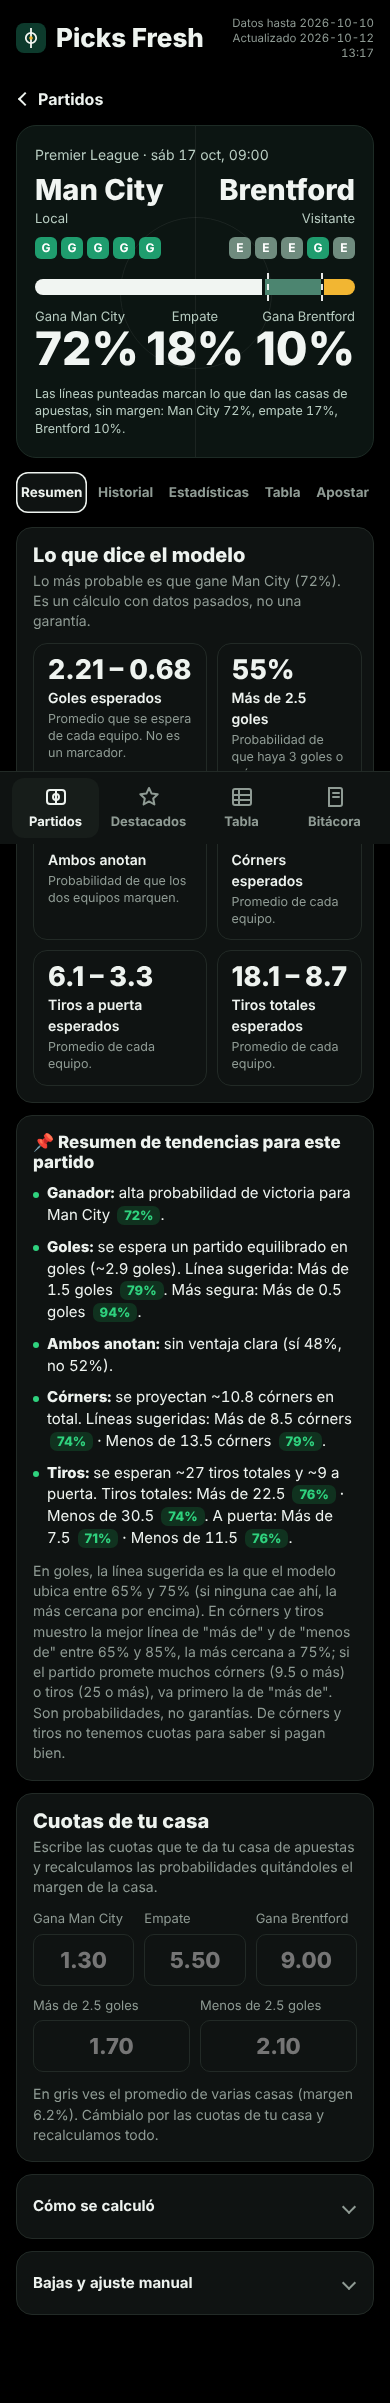
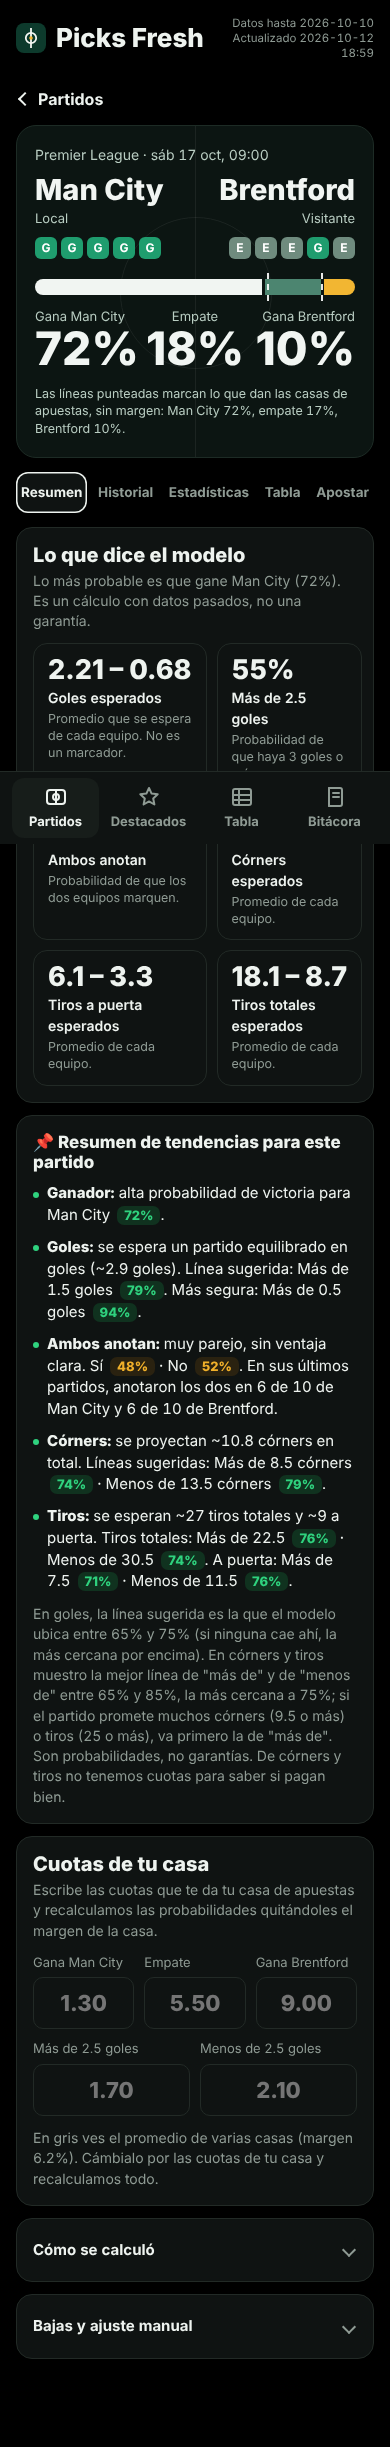
Champions: filtro por defecto Todos con pocos partidos, racha G/E/P en el encabezado, nota sin córners/tiros y cuotas sincronizadas entre Resumen y Apostar
Claude-Session: https://claude.ai/code/session_01YKbpTzYu7cTPcBzQGSTsEC

diff --git a/build.py b/build.py
@@ -1568,7 +1568,7 @@ function expectHtml(h,a,c,fin){
   }
   return `<div class="exptit">📌 Resumen de tendencias para este partido</div>
     <ul class="exp">${li.join("")}</ul>
-    <div class="sub" style="margin-top:12px">En goles, la línea sugerida es la que el modelo ubica entre 65% y 75% (si ninguna cae ahí, la más cercana por encima). En córners y tiros muestro la mejor línea de \"más de\" y de \"menos de\" entre 65% y 85%, la más cercana a 75%; si el partido promete muchos córners (9.5 o más) o tiros (25 o más), va primero la de \"más de\". Son probabilidades, no garantías. ${c.mk&&Object.keys(c.mk).length?"De córners y tiros no tenemos cuotas para saber si pagan bien.":""}</div>`;
+    <div class="sub" style="margin-top:12px">En goles, la línea sugerida es la que el modelo ubica entre 65% y 75% (si ninguna cae ahí, la más cercana por encima). ${co||sh||so?`En córners y tiros muestro la mejor línea de \"más de\" y de \"menos de\" entre 65% y 85%, la más cercana a 75%; si el partido promete muchos córners (9.5 o más) o tiros (25 o más), va primero la de \"más de\". `:""}Son probabilidades, no garantías. ${co||sh||so?"De córners y tiros no tenemos cuotas para saber si pagan bien.":""}</div>`;
 }
 
 /* ---------- clasificación ---------- */
@@ -1643,7 +1643,14 @@ function fillTeams(){
   const pref=first?[first.h,first.a]:[L.teams[0],L.teams[1]];
   $("home").value=pref[0]; $("away").value=pref[1];
 }
-function formHtml(t){return (DATA.leagues[league].form[t]||"").split("").map(c=>`<i class="${c}">${c}</i>`).join("");}
+function formHtml(t){
+  let f=(DATA.leagues[league].form||{})[t]||"";
+  if(!f&&league==="ucl"){                    // Champions: últimos 5 oficiales (liga local + Champions)
+    const sr=seriesFor(t,"all",5);
+    if(sr.ok)f=sr.ms.slice().reverse().map(m=>{const x=m.home?m.hg:m.ag,y=m.home?m.ag:m.hg;return x>y?"G":x===y?"E":"P";}).join("");
+  }
+  return f.split("").filter(Boolean).map(c=>`<i class="${c}">${c}</i>`).join("");
+}
 function esc(s){return String(s).replace(/[&<>"]/g,c=>({"&":"&amp;","<":"&lt;",">":"&gt;",'"':"&quot;"}[c]));}
 function injHtml(h,a){
   const L=DATA.leagues[league];
@@ -1692,7 +1699,7 @@ function ymd(n){const y=Math.floor(n/10000),m=Math.floor(n/100)%100,d=n%100;retu
 /* ---------- historial: partidos de liga y de Champions ---------- */
 function scTxt(){
   const n=win;
-  return {all:"Últimos "+n+" partidos de liga de cada equipo, jugados de local y de visita.",
+  return {all:league==="ucl"?"Últimos "+n+" partidos oficiales de cada equipo, con su liga local y la Champions League juntas.":"Últimos "+n+" partidos de liga de cada equipo, jugados de local y de visita.",
     home:"Últimos "+n+" partidos de liga en los que cada equipo jugó de local.",
     away:"Últimos "+n+" partidos de liga en los que cada equipo jugó de visita.",
     ucl:"Últimos "+n+" partidos de Champions League de cada equipo, con las rondas previas. Hay datos de 2024/25, 2025/26 y la jornada 1 de 2026/27."}[scope];
@@ -1730,6 +1737,11 @@ function seriesFor(team,sc,n){
   if(sc==="ucl"){
     const c=uclName(team), ms=c?uclMatches(c,n):[];
     return ms.length?{ok:true,name:c,ms:ms}:{ok:false,msg:"No jugó la Champions League (ni sus rondas previas) en las últimas dos temporadas."};
+  }
+  if(league==="ucl"&&sc==="all"){          // en un partido de Champions, "Todos" junta su liga local y la Champions
+    const c=uclName(team), res0=resolveHist(team);
+    const ms=((res0?domMatches(res0,n,"all"):[]).concat(c?uclMatches(c,n):[])).sort((x,y)=>y.d-x.d).slice(0,n);
+    if(ms.length)return {ok:true,name:c||res0.name,ms:ms,mixed:true};
   }
   const res=resolveHist(team);
   if(!res)return {ok:false,msg:"No tenemos su historial de liga. Solo hay datos de Bundesliga, Premier League y La Liga."};
@@ -1776,7 +1788,7 @@ function renderHist(h,a){
   $("scopeH").innerHTML=scopeHtml();
   $("teamSw").innerHTML=[["h",h],["a",a]].map(([k,t])=>`<button type="button" data-ht="${k}" aria-pressed="${k===histTeam}">${esc(t)}</button>`).join("");
   const col=(team,role,s)=>`<section class="box tcard" data-t="${role}"><h3>${esc(team)}<span class="role">${role==="h"?"Local en este partido":"Visitante en este partido"}</span></h3>${
-    s.ok?(s.local?`<div class="sub">Sus partidos de liga local (no incluye Champions).</div>`:"")+sumHtml(s.ms)+`<div>${s.ms.map(m=>matchRow(m,s.name)).join("")}</div>`
+    s.ok?(s.mixed?`<div class="sub">Liga local y Champions juntas, del más reciente al más antiguo.</div>`:s.local?`<div class="sub">Sus partidos de liga local (no incluye Champions).</div>`:"")+sumHtml(s.ms)+`<div>${s.ms.map(m=>matchRow(m,s.name)).join("")}</div>`
         :`<div class="empty">${esc(s.msg)}</div>`}</section>`;
   $("hist").className="hgrid show-"+histTeam;
   $("hist").innerHTML=col(h,"h",seriesFor(h,scope))+col(a,"a",seriesFor(a,scope));
@@ -2107,6 +2119,7 @@ function setView(v){
   window.scrollTo(0,0);
 }
 function setTab(t){
+  if(oddsDirty&&view==="match"&&t!==tab){oddsDirty=false;render();}   // al cambiar de pestaña, se recalculan las probabilidades con las cuotas escritas
   tab=t;
   document.querySelectorAll("#mTabs button").forEach(b=>b.setAttribute("aria-selected",b.dataset.t===t?"true":"false"));
   [["sum","pSum"],["hist","pHist"],["trend","pTrend"],["table","pTable"],["mk","pMk"]].forEach(([k,id])=>{$(id).hidden=k!==t;});
@@ -2115,7 +2128,10 @@ function setTab(t){
 }
 function openMatch(h,a,t){
   $("home").value=h; $("away").value=a; $("adjH").value="0"; $("adjA").value="0";
-  histTeam="h"; scope=league==="ucl"?"ucl":"all";
+  histTeam="h";
+  // Champions: si algún equipo tiene menos de 4 partidos de Champions en los datos, se abre en "Todos" (liga local + Champions)
+  const nU=t=>{const c=uclName(t);return c?uclMatches(c,4).length:0;};
+  scope=league==="ucl"&&nU(h)>=4&&nU(a)>=4?"ucl":"all";
   render(); setTab(t||"sum"); setView("match");
   try{history.pushState({m:1},"");}catch(e){}
 }
@@ -2164,17 +2180,25 @@ $("pTrend").addEventListener("click",ev=>{
   redrawStats();
 });
 $("adjH").addEventListener("change",render); $("adjA").addEventListener("change",render);
+/* Cuotas de Resumen <-> Tu cuota de Apostar: se copian al instante (no hace falta salir del campo) */
+const SYNC={"1":"ou1","X":"ouX","2":"ou2","o:goals:2.5":"ouO","u:goals:2.5":"ouU"};
+let oddsDirty=false;
 $("pSum").addEventListener("input",ev=>{
   const k=ev.target.dataset&&ev.target.dataset.k; if(!k)return;
   const v=parseFloat(ev.target.value.replace(",","."));
   if(v>1)userOdds[k]=v; else delete userOdds[k];
+  oddsDirty=true;
+  const i=cur?cur.rows.findIndex(r=>r.key===k):-1, el=i>=0?$("o"+i):null;
+  if(el){el.value=ev.target.value; onOdds(i);}
 });
 $("pSum").addEventListener("change",ev=>{if(ev.target.dataset&&ev.target.dataset.k)render();});
 $("mk").addEventListener("input",ev=>{
   if(ev.target.dataset.i===undefined||ev.target.tagName!=="INPUT")return;
   const i=+ev.target.dataset.i, v=parseFloat(ev.target.value.replace(",","."));
-  if(v>1)userOdds[rowKey(cur.rows[i])]=v; else delete userOdds[rowKey(cur.rows[i])];
+  const rk=rowKey(cur.rows[i]);
+  if(v>1)userOdds[rk]=v; else delete userOdds[rk];
   onOdds(i);
+  if(SYNC[rk]){oddsDirty=true; $(SYNC[rk]).value=ev.target.value;}
 });
 $("mk").addEventListener("change",ev=>{
   if(ev.target.dataset.i===undefined||ev.target.tagName!=="INPUT")return;
